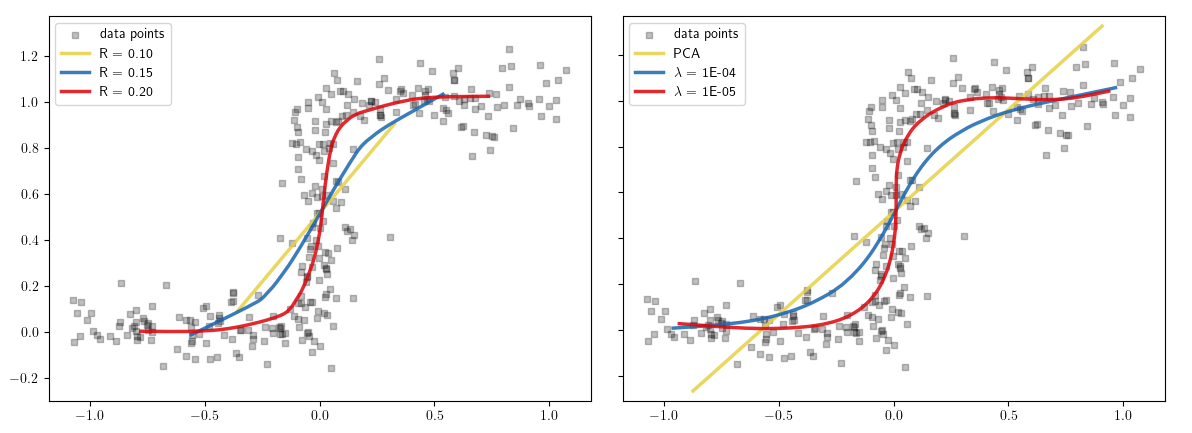
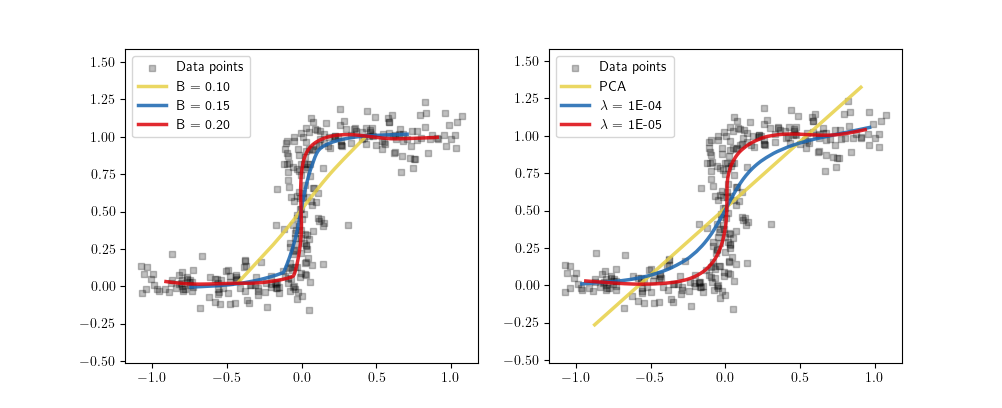
correct plot details

diff --git a/length_example.py b/length_example.py
@@ -1,0 +1,197 @@
+# -*- coding: utf-8 -*-
+"""
+Created on Wed May 24 15:13:46 2023
+
+@author: souza-m
+"""
+
+import numpy as np
+import pandas as pd
+import matplotlib.pyplot as pl
+from sklearn.decomposition import PCA
+from sklearn.cluster import KMeans
+import pickle
+from cycler import cycler
+
+import wkm
+
+
+# --- data set -- choose synthetic (step graph) or real data (air quality data) ---
+
+# 1. step graph
+
+def rho_step_2d(n):
+    third = int(n/3)
+    t = np.concatenate([np.linspace(-1, 0, third), np.zeros(n - 2 * third), np.linspace(0, 1, third)])
+    s = np.concatenate([np.zeros(third), np.linspace(0, 1, n - 2 * third), np.ones(third)])
+    p = np.vstack([t, s]).T
+    return p
+
+d = 2
+n = 300
+# m = 500
+
+np.random.seed(1)
+noise_var = .01
+p = rho_step_2d(n)
+mean = [0 for i in range(d)]
+cov = noise_var * np.eye(d)
+y = np.vstack([p[i,:] + np.random.multivariate_normal(mean, np.random.random(d) * cov, size=1) for i in range(n)])
+  
+pca = PCA(n_components=1)
+f = pca.fit_transform(y)
+x_pca = pca.inverse_transform(f)   # pca.mean_ + f * pca.components_
+order = np.argsort(f[:,0])
+x_pca = x_pca[order]
+
+length_parameter = [.1, .125, .15, .175, .2]
+curvature_parameter = [.0005, .0002, .0001, .00004]
+
+
+# 2. air quality (not used)
+
+# air = pd.read_csv('data/airquality.csv')
+# air = air[['Ozone', 'Temp']].dropna()
+# y = air.values
+# pca = PCA(n_components=1)
+# f = pca.fit_transform(y)
+# x_pca = pca.inverse_transform(f)   # pca.mean_ + f * pca.components_
+# n = len(y)
+
+# # reorder x and pi in the order of the principal axis
+# order = np.argsort(f[:,0])
+# x_pca = x_pca[order]
+# y = y[order]
+# n = len(y)
+# m = n
+
+# length_parameter = [.1, .25, .4]
+# curvature_parameter = [.05, .02, .01, .005, .002, .001]
+# curvature_parameter = [.001, .0002, .0001, .00002, .00001]
+
+
+# -- problem -- choose bounded curvature or bounded length --
+
+# 1. bounded curvature
+m = n
+x_list = [x_pca]
+
+_compute = False
+_dump = False
+_load = True
+_path = './model_dump/bounded_curvature_step_x_list.pickle'
+
+if _compute:
+    parameter = curvature_parameter
+    for penalty in parameter:
+        # x, pi, exy_series = wkm.fit(y, m, 'curvature', x0=x0, pi0=pi, epochs=500, verbose=True, curvature_penalty=penalty)
+        x, pi, exy_series = wkm.fit(y, m, 'curvature', x0=x_pca, pi0 = np.eye(m) / m, epochs=50000, verbose=False, curvature_penalty=penalty)
+        x_list.append(x)
+
+if _dump:
+    DF = {'x_list': x_list, 'parameter': parameter}
+    with open(_path, 'wb') as file:
+        pickle.dump(DF, file)
+    print('x_list and parameter saved to ' + _path)
+
+if _load:
+    with open(_path, 'rb') as file:
+        DF = pickle.load(file)
+    print('x_list and parameter loaded from ' + _path)
+    x_list = DF['x_list']
+    parameter = DF['parameter']
+
+
+
+# 2. bounded length
+m = n
+x_list = []
+
+_compute = False
+_dump = False
+_load = True
+_path = './model_dump/bounded_length_step_x_list.pickle'
+
+if _compute:
+    parameter = length_parameter
+    for B in parameter:
+        x, pi, exy_series = wkm.fit(y, m, 'length', x0=x_pca, pi0 = np.eye(m) / m, epochs=5, verbose=False, length=B)
+        x_list.append(x)
+
+if _dump:
+    DF = {'x_list': x_list, 'parameter': parameter}
+    with open(_path, 'wb') as file:
+        pickle.dump(DF, file)
+    print('x_list and parameter saved to ' + _path)
+
+if _load:
+    with open(_path, 'rb') as file:
+        DF = pickle.load(file)
+    print('x_list and parameter loaded from ' + _path)
+    x_list = DF['x_list']
+    parameter = DF['parameter']
+
+
+
+# 3. k-means w/ fixed weights (not used)
+
+# # m = 40   # air
+# m = 50   # step
+# x, pi, exy_series = wkm.fit(y, m, 'kmeans_fixed', epochs=5, verbose=True)
+# order = np.argsort(x.sum(axis=1))    # manual ordering
+# x = x[order]
+# x_list = [x]
+# u = np.ones(m) / m   # weights
+
+# # reguar k-means (free weights) -- Lloyd's
+# kmeans = KMeans(n_clusters=m, random_state=0).fit(y)
+# kc = kmeans.predict(y)
+# uk = 1. * np.array([(kc == i).sum() for i in set(kc)])
+# uk /= uk.sum()   # weights
+# x_km = kmeans.cluster_centers_
+
+
+# -- plots -- 
+
+color_cycle = ['#E7D046', '#1965B0', '#DC050C', '#F1932D', '#4EB265', '#F6C141'] # https://personal.sron.nl/~pault/#fig:scheme_rainbow_discrete -- numbers 10, 15, 18, 20, 26
+
+# curves
+
+pl.rcParams['text.usetex'] = True
+cc = cycler('color', color_cycle)
+# _x_list = x_sample
+# _parameter = [parameter[0], parameter[2], parameter[4]]
+# _x_list = [x_list[0], x_list[2], x_list[4]]
+fig, ax = pl.subplots(figsize=[7, 5])
+ax.axis('equal')
+ax.set_prop_cycle(cc)
+ax.scatter(x=y[:,0], y=y[:,1], s=13, marker='s', color='black', alpha=.25)
+for x in _x_list:
+    ax.plot(x[:,0], x[:,1], linewidth=2.5, alpha=.85)
+# ax.legend(['PCA'] + [f'{p:0.1f}' for p in _parameter])
+# ax.legend(['data points'] + [f'R = {p:0.2f}' for p in _parameter])
+ax.legend(['data points', 'PCA'] + [f'$\lambda$ = {p:0.0E}' for p in _parameter[1:]])
+# for x in _x_list:
+#     ax.scatter(x=x[:,0], y=x[:,1], s=12, alpha=.75)
+
+
+# scatterplot (not used)
+
+# cc = cycler('color', color_cycle[1:])
+# _parameter = parameter
+# _x_list = x_list
+# fig, ax = pl.subplots(figsize=[7, 5])
+# ax.axis('equal')
+# ax.set_prop_cycle(cc)
+# ax.scatter(x=y[:,0], y=y[:,1], s=13, marker='s', color='black', alpha=.25)
+# ax.plot(p[:,0], p[:,1], color=color_cycle[0], linewidth=2.5, alpha=.7)
+# for x in _x_list:
+#     ax.scatter(x=x[:,0], y=x[:,1], s= 1500 * u, alpha=.75)
+#     ax.scatter(x=x_km[:,0], y=x_km[:,1], s= 1500 * uk, alpha=.75)
+# ax.legend(['data points', 'originating curve', 'centroids with fixed weights', 'centroids with free weights'])
+# ax.set_prop_cycle(cc)
+# for x in _x_list:
+#     ax.scatter(x=x_km[:,0], y=x_km[:,1], s= 1500 * uk, alpha=.8, color=color_cycle[2])
+#     ax.scatter(x=x[:,0], y=x[:,1], s= 1500 * u, alpha=.9, color=color_cycle[1])
+
+

diff --git a/curve_examples.py b/curve_examples.py
@@ -107,17 +107,16 @@ if _load:
 # -- plots -- 
 
 color_cycle = ['#E7D046', '#1965B0', '#DC050C', '#F1932D', '#4EB265', '#F6C141'] # https://personal.sron.nl/~pault/#fig:scheme_rainbow_discrete -- numbers 10, 15, 18, 20, 26
+pl.rcParams['text.usetex'] = True
+cc = cycler('color', color_cycle)
+
+
 
 # select a few curves to be plotted
-
 select_parameter = [parameter[i] for i in [0, 2, 4]]
 select_x_list = [x_list[i] for i in [0, 2, 4]]
 
-
 # show
-
-pl.rcParams['text.usetex'] = True
-cc = cycler('color', color_cycle)
 fig, ax = pl.subplots(figsize=[7, 5])
 ax.axis('equal')
 ax.set_prop_cycle(cc)
@@ -133,29 +132,31 @@ ax.legend(['Data points'] + [f'R = {p:0.2f}' for p in select_parameter])
 
 # subplots with both examples side by side
 
+# first run ex. 1 and this
 x_list0 = x_list.copy()
-parameter0 = parameter.copy()
-x_list1 = x_list.copy()
-parameter1 = parameter.copy()
 x_list0 = [x_list0[i] for i in [0, 2, 4]]
-x_list1 = [x_list1[i] for i in [0, 2, 4]]
+parameter0 = parameter.copy()
 parameter0 = [parameter0[i] for i in [0, 2, 4]]
+
+# then run ex. 2 and this
+x_list1 = x_list.copy()
+x_list1 = [x_list1[i] for i in [0, 2, 4]]
+parameter1 = parameter.copy()
 parameter1 = [parameter1[i] for i in [0, 2, 4]]
 
-
-fig, ax = pl.subplots(1, 2, sharey=True, figsize=[10, 4])
-
+# now plot both copies
+fig, ax = pl.subplots(1, 2, sharey=False, figsize=[10, 4])
 ax[0].axis('equal')
 ax[0].set_prop_cycle(cc)
 ax[0].scatter(x=y[:,0], y=y[:,1], s=13, marker='s', color='black', alpha=.25)
 for x in x_list0:
     ax[0].plot(x[:,0], x[:,1], linewidth=2.5, alpha=.85)
-ax[0].legend(['Data points'] + [f'R = {p:0.2f}' for p in parameter0])   # length
+ax[0].legend(['Data points'] + [f'B = {p:0.2f}' for p in parameter0])   # length
 
 ax[1].axis('equal')
 ax[1].set_prop_cycle(cc)
 ax[1].scatter(x=y[:,0], y=y[:,1], s=13, marker='s', color='black', alpha=.25)
 for x in x_list1:
     ax[1].plot(x[:,0], x[:,1], linewidth=2.5, alpha=.85)
-ax[1].legend(['Data points', 'PCA'] + [f'B = {p:0.0E}' for p in select_parameter[1:]])   # curvature
-fig.tight_layout()
+ax[1].legend(['Data points', 'PCA'] + [f'$\lambda$ = {p:0.0E}' for p in parameter1[1:]])   # curvature
+# fig.tight_layout()

diff --git a/wkm.py b/wkm.py
@@ -53,7 +53,7 @@ def fit(y, m, method, x0 = None, pi0 = None, epochs = 1, verbose = False, **kwar
         
         # iterate
         for epoch in range(epochs):
-            _xh = update_xh(pi, _y, method='curvature', xh0=xh, curvature_penalty=curvature_penalty, alpha=alpha)
+            # _xh = update_xh(pi, _y, method='curvature', xh0=xh, curvature_penalty=curvature_penalty, alpha=alpha)
             _xh = update_xh(pi, _y, 'curvature', xh0 = xh, curvature_penalty = curvature_penalty, alpha = alpha)
             if epoch % 1000 == 0:
                 d = _xh.shape[1]
